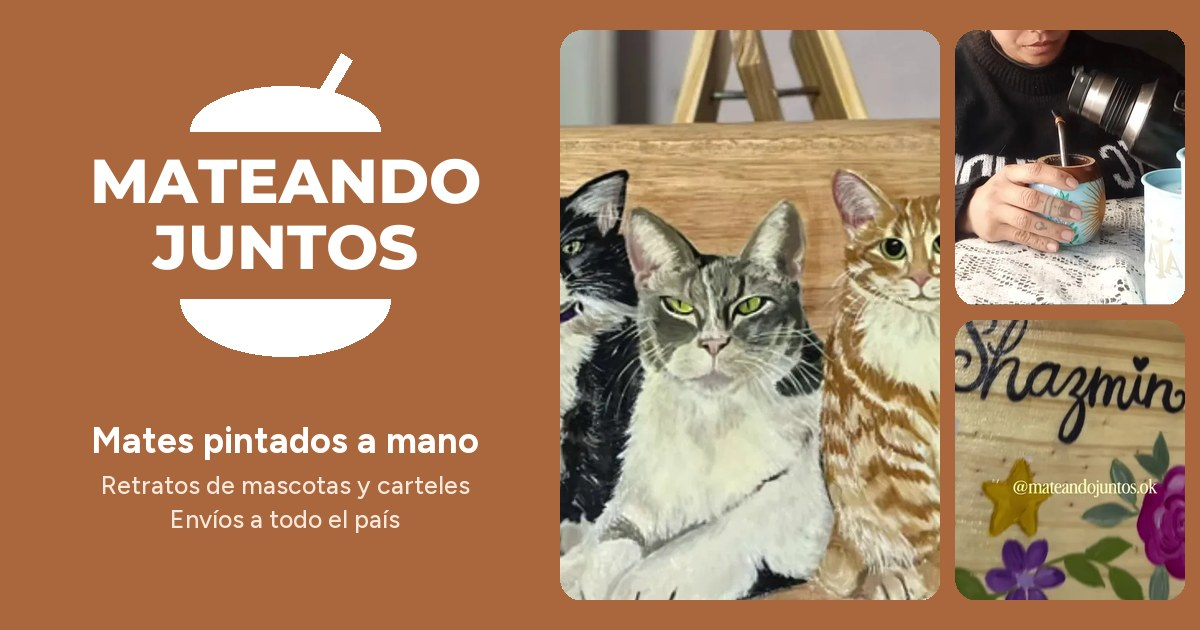
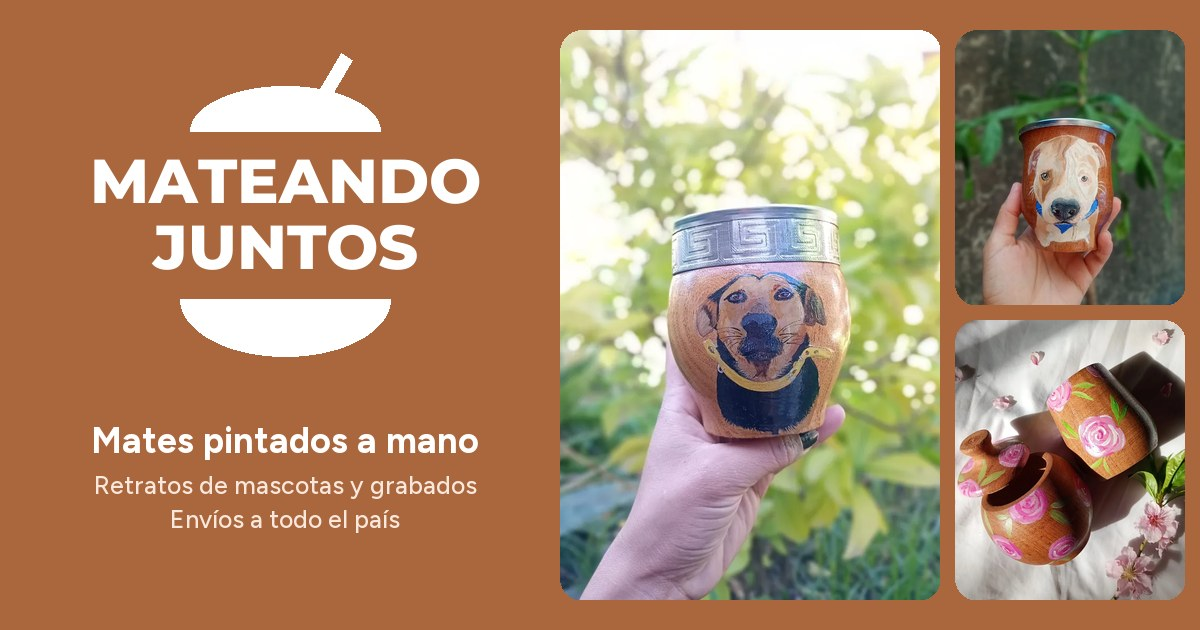
Propuesta web: Mateando Juntos

diff --git a/mateando-juntos/index.html b/mateando-juntos/index.html
@@ -186,6 +186,22 @@ section{scroll-margin-top:calc(var(--header) + 8px)}
 .prod h3{font-size:19px}
 .prod .det{margin-top:6px;color:var(--tinta-2);font-size:15.5px;line-height:1.5}
 .prod .precio{margin-top:10px;font-weight:600;font-size:15px;color:var(--barro-osc)}
+.prod .precio.con{font:800 21px/1.2 var(--marca);color:var(--tinta);letter-spacing:-.01em;font-variant-numeric:tabular-nums}
+.prod .precio s{font:500 15px var(--body);color:var(--tinta-2);margin-left:6px;white-space:nowrap;display:inline-block}
+@media (max-width:560px){.prod .precio.con{font-size:18px}.prod .precio s{font-size:13.5px;margin-left:4px}}
+.nota-prod{display:flex;gap:6px;align-items:flex-start;margin-top:8px;font-size:14px;line-height:1.4;color:var(--barro-osc);font-weight:500}
+.nota-prod .ph{margin-top:2px;flex:none}
+.promo{position:absolute;top:12px;left:12px;padding:6px 12px;border-radius:999px;background:var(--rosa);color:#fff;font:700 13px/1 var(--body)}
+.grilla.filtrada .prod.ancha{grid-column:1 / -1}
+.totales{margin-top:14px;padding:14px 4px 0;border-top:1px dashed rgba(42,28,34,.25);display:grid;gap:4px}
+.totales .fila-t{display:flex;justify-content:space-between;align-items:baseline;gap:12px}
+.totales .fila-t span{font-weight:700;font-size:17px}
+.totales strong{font:800 26px/1 var(--marca);font-variant-numeric:tabular-nums}
+.totales small{color:var(--tinta-2);font-size:13.5px}
+.item .sub{position:absolute;top:12px;right:14px;font-weight:700;font-size:15px;font-variant-numeric:tabular-nums}
+.item{position:relative}
+.item .nom{padding-right:90px}
+.cart-fab .monto,.cart-bar .monto{font-variant-numeric:tabular-nums;white-space:nowrap;opacity:.9}
 .var{display:flex;flex-wrap:wrap;gap:6px;margin-top:12px}
 .var button{height:36px;padding:0 14px;border-radius:999px;border:0;cursor:pointer;background:var(--pared);color:var(--tinta);font:600 14px/1 var(--body);transition:background-color .15s ease, color .15s ease}
 .var button[aria-pressed="true"]{background:var(--barro-claro);color:var(--barro-osc);box-shadow:inset 0 0 0 1.5px var(--barro)}
@@ -204,8 +220,8 @@ section{scroll-margin-top:calc(var(--header) + 8px)}
 .cant output{font-weight:700;font-variant-numeric:tabular-nums;min-width:2ch;text-align:center;font-size:15px}
 .add[data-n="0"] .cant{opacity:0;transform:scale(.95);pointer-events:none;visibility:hidden}
 .add:not([data-n="0"]) .agregar{opacity:0;transform:scale(.95);pointer-events:none;visibility:hidden}
-.prod.ancha{grid-column:1 / -1;display:grid;grid-template-columns:minmax(0,1fr) minmax(0,2fr);gap:32px;align-items:center;padding-top:6px}
-.prod.ancha .foto{aspect-ratio:16/10}
+.prod.ancha{grid-column:span 2;display:grid;grid-template-columns:minmax(0,1fr) minmax(0,2fr);gap:32px;align-items:center;padding-top:6px}
+.prod.ancha .foto{aspect-ratio:4/3}
 .prod.ancha .prod-txt{padding-top:0;max-width:46ch}
 .prod.ancha .empuje{margin-top:14px}
 .prod.ancha .add{max-width:280px}
@@ -215,7 +231,7 @@ section{scroll-margin-top:calc(var(--header) + 8px)}
 .cat-pie a{color:var(--barro-osc);font-weight:600;text-underline-offset:3px}
 .prod.marcado .foto{animation:marcar 1.4s var(--ease-out)}
 @keyframes marcar{0%,40%{box-shadow:0 0 0 4px var(--barro)}100%{box-shadow:0 0 0 0 transparent}}
-@media (max-width:980px){.grilla{grid-template-columns:1fr 1fr;gap:28px 16px}}
+@media (max-width:980px){.grilla{grid-template-columns:1fr 1fr;gap:28px 16px}.prod.ancha{grid-column:1 / -1}}
 @media (max-width:560px){.prod.ancha{grid-template-columns:minmax(0,1fr) minmax(0,1.3fr);gap:14px;align-items:start}.prod.ancha .foto{aspect-ratio:1/1}.prod.ancha .add{max-width:none}}
 @media (max-width:560px){
   .catalogo{padding:64px 0 72px;border-radius:26px 26px 0 0}
@@ -564,7 +580,7 @@ html.carrito-abierto{overflow:hidden}
             </g>
           </g>
         </svg>
-        <figure class="foto-real" style="margin:0"><img src="img/web/mate-pintado.webp" alt="Un mate celeste con un sol pintado a mano, recién cebado" width="800" height="814"></figure>
+        <figure class="foto-real" style="margin:0"><img src="img/web/mateando-01.webp" alt="Mate camionero con el retrato de un perro pintado a mano" width="800" height="1063"></figure>
       </div>
     </div>
   </section>
@@ -585,7 +601,7 @@ html.carrito-abierto{overflow:hidden}
     <div class="wrap">
       <div class="cat-cab">
         <h2 id="catTit">Catálogo</h2>
-        <p>Todo se hace a pedido. Agregá lo que te guste, contame tu idea y te paso el precio por WhatsApp.</p>
+        <p>Los precios son los de su catálogo de WhatsApp. Lo personalizado se hace a pedido: agregalo, contame tu idea y te confirmo precio y tiempos.</p>
       </div>
       <div class="filtros" id="filtros" role="group" aria-label="Filtrar el catálogo"></div>
       <div class="grilla" id="grilla"></div>
@@ -598,12 +614,12 @@ html.carrito-abierto{overflow:hidden}
       <figure><img src="img/web/gatos-todos.webp" alt="Tabla de madera con nueve gatitos retratados a mano, apoyada en un atril" width="720" height="680" loading="lazy" decoding="async"></figure>
       <div class="retratos-txt">
         <h2 id="retTit">Tu mascota, pintada a mano</h2>
-        <p>Uno, dos o nueve. En tabla de madera o en formato circular de 25 cm. Me mandás la foto por WhatsApp y la pinto pincelada por pincelada.</p>
+        <p>En tu mate camionero, imperial o perita, o en una tabla de madera. Me mandás la foto por WhatsApp y la pinto pincelada por pincelada.</p>
         <blockquote>
           <p>“Fueron horas de trabajo, muchos detalles, paciencia, pinceladas y sobre todo, muchísimo amor por lo que hago.”</p>
           <cite>Milagros, sobre el retrato de nueve gatitos</cite>
         </blockquote>
-        <a class="btn btn-barro" href="#catalogo" data-filtrar="retratos"><i class="ph ph-paw-print" aria-hidden="true"></i>Ver retratos</a>
+        <a class="btn btn-barro" href="#catalogo" data-filtrar="personalizados"><i class="ph ph-paw-print" aria-hidden="true"></i>Ver mates con retrato</a>
       </div>
     </div>
   </section>
@@ -669,10 +685,10 @@ html.carrito-abierto{overflow:hidden}
 </a>
 
 <button class="cart-fab" type="button" id="cartFab" data-abrir-carrito aria-label="Ver tu pedido">
-  <i class="ph ph-shopping-bag" aria-hidden="true"></i><span>Ver pedido</span><span class="badge" data-total aria-hidden="true">0</span>
+  <i class="ph ph-shopping-bag" aria-hidden="true"></i><span>Ver pedido</span><span class="monto" data-monto></span><span class="badge" data-total aria-hidden="true">0</span>
 </button>
 <button class="cart-bar" type="button" id="cartBar" data-abrir-carrito aria-label="Ver tu pedido">
-  <i class="ph ph-shopping-bag" aria-hidden="true"></i><span>Ver pedido</span><span class="badge" data-total aria-hidden="true">0</span>
+  <i class="ph ph-shopping-bag" aria-hidden="true"></i><span>Ver pedido</span><span class="monto" data-monto></span><span class="badge" data-total aria-hidden="true">0</span>
 </button>
 <p class="sr" id="anuncio" aria-live="polite"></p>
 
@@ -693,6 +709,7 @@ html.carrito-abierto{overflow:hidden}
       <div id="lleno" hidden>
         <ul class="lista" id="lista" aria-label="Lo que elegiste"></ul>
         <div class="foto-aviso" id="fotoAviso" hidden><svg aria-hidden="true"><use href="#wa"/></svg><p>La foto de tu mascota mandámela por WhatsApp, en el mismo chat que se abre con el pedido. Mientras más clara y de frente, mejor queda el retrato.</p></div>
+        <div class="totales"><div class="fila-t"><span>Total</span><strong id="totalMonto">$ 0</strong></div><small id="totalNota"></small></div>
         <button type="button" class="vaciar" id="vaciar">Vaciar pedido</button>
         <form class="form" id="datos" novalidate>
           <h3>Tus datos</h3>
@@ -718,7 +735,7 @@ html.carrito-abierto{overflow:hidden}
     </div>
     <div class="cajon-pie" id="cajonPie" hidden>
       <button class="btn enviar" type="submit" form="datos" id="enviar"><svg aria-hidden="true"><use href="#wa"/></svg><span>Enviar pedido por WhatsApp</span></button>
-      <p class="nota">Se abre WhatsApp con tu pedido armado. Te paso precio y tiempos por ahí.</p>
+      <p class="nota">Se abre WhatsApp con tu pedido y el total. Te confirmo precios, tiempos y envío por ahí.</p>
       <p class="aviso" id="aviso" role="status" aria-live="polite"></p>
     </div>
   </div>
@@ -736,35 +753,78 @@ var IDEA_PH = {
   frase: 'Ej: "Bienvenidos" con los nombres Luna y Atenea',
   ninguna: 'Color o detalle que prefieras'
 };
-var CATS = [['todo', 'Todo', 'var(--tinta-2)'], ['mates', 'Mates', 'var(--celeste)'], ['retratos', 'Retratos', 'var(--rosa)'], ['carteles', 'Carteles', 'var(--oro)'], ['materas', 'Materas', 'var(--barro)'], ['medida', 'A medida', 'var(--violeta)']];
+// Categorías = colecciones de su catálogo de WhatsApp (más dos grupos para lo que figura solo en "Todos los artículos").
+var CATS = [
+  ['todo', 'Todos los artículos', 'var(--tinta-2)'],
+  ['personalizados', 'Mates personalizados', 'var(--rosa)'],
+  ['algarrobo', 'Mates algarrobo', 'var(--barro)'],
+  ['grabados', 'Grabados personalizados', 'var(--oro)'],
+  ['bombillas', 'Bombillas', 'var(--celeste)'],
+  ['calabaza', 'Calabaza y cuero', 'var(--hoja)'],
+  ['canastas', 'Canastas y termos', 'var(--violeta)'],
+  ['medida', 'A medida', 'var(--violeta)']
+];
 var COLOR_CAT = {}; CATS.forEach(function (c) { COLOR_CAT[c[0]] = c[2]; });
 
-// Productos reales de sus publicaciones de Instagram. Sin precios en sus textos: "Consultá precio".
+// Catálogo real de WhatsApp Business de Mateando Juntos (wa.me/c/5491123087815). Precios en pesos solo donde figuran.
+var DIEZ = '10 días de anticipación mínima.';
 var PRODUCTOS = [
-  { id: 'mate-pintado', cat: 'mates', nombre: 'Mate pintado a mano', det: 'Con el diseño, los colores o el nombre que elijas.', img: 'img/web/mate-pintado.webp', alt: 'Mate celeste pintado a mano con un sol', pers: 'pintado' },
-  { id: 'combo', cat: 'mates', nombre: 'Combo Perdón', img: 'img/web/combos.webp', alt: 'Los tres combos Perdón: básico, estándar y premium', pers: 'ninguna',
-    variantes: [['basico', 'Básico', 'Mate camionero de algarrobo + bombilla pico de loro.'], ['estandar', 'Estándar', 'Mate imperial de algarrobo + bombilla pico de loro.'], ['premium', 'Premium', 'Mate torpedo de calabaza y base + bombilla pico de loro.']] },
-  { id: 'retrato-tabla', cat: 'retratos', nombre: 'Retrato de mascotas en madera', det: 'Una o varias mascotas, pintadas a mano sobre tabla de madera maciza.', img: 'img/web/retrato-tabla.webp', alt: 'Gatitos retratados a mano sobre una tabla de madera', pers: 'mascota' },
-  { id: 'retrato-circular', cat: 'retratos', nombre: 'Retrato circular de 25 cm', img: 'img/web/retrato-gato.webp', alt: 'Retrato pintado a mano de un gato atigrado', pers: 'mascota',
-    variantes: [['mascota', 'De mascota', 'Tu mascota pintada a mano, en formato circular.', 'mascota'], ['ilustrado', 'Ilustrado', 'Retrato ilustrado de personas, en formato circular.', 'pintado']] },
-  { id: 'cartel', cat: 'carteles', nombre: 'Cartel de bienvenida', det: 'Nombres, flores, lunas y estrellas, pintados a mano para tu casa.', img: 'img/web/cartel-card.webp', pos: '0% 50%', alt: 'Cartel redondo de madera con los nombres Isis y Shazmin, margaritas y rosas', pers: 'frase' },
-  { id: 'matera', cat: 'materas', nombre: 'Matera', det: 'Amplia y cómoda, con división para el termo y la bombilla.', img: 'img/web/matera-termo.webp', alt: 'Matera marrón colgando, al aire libre', pers: 'ninguna' },
-  { id: 'a-medida', cat: 'medida', nombre: 'Pedido a medida', det: 'Grabado láser, una frase, otro objeto. Contame la idea y lo vemos.', img: '', alt: '', pers: 'laser' }
+  { id: 'camionero-retrato', cat: 'personalizados', nombre: 'Camionero + retrato/silueta', det: 'Mate camionero de algarrobo con virola de acero y el retrato de tu mascota o una silueta a elección. Incluye bombilla pico de loro de regalo.', nota: DIEZ + ' Si es más de una mascota, consultá.', img: 'mateando-01', alt: 'Mate camionero con el retrato pintado de un perro blanco y marrón', pers: 'mascota' },
+  { id: 'imperial-retrato', cat: 'personalizados', nombre: 'Imperial + retrato/silueta', det: 'Mate imperial de algarrobo con virola de acero y el retrato de tu mascota o una silueta a elección. Incluye bombilla pico de loro de regalo.', nota: DIEZ + ' Si es más de una mascota, consultá.', img: 'mateando-02', alt: 'Mate imperial con el retrato pintado de un perro negro', pers: 'mascota' },
+  { id: 'perita-retrato', cat: 'personalizados', nombre: 'Perita algarrobo + retrato/silueta', det: 'Mate perita de algarrobo con el retrato de tu mascota o una silueta a elección. Incluye bombilla de color de regalo y packaging.', nota: DIEZ + ' Si es más de una mascota, consultá.', img: 'mateando-20', alt: 'Mate perita con el retrato pintado de un perro', pers: 'mascota' },
+  { id: 'camionero-diseno', cat: 'personalizados', nombre: 'Camionero + diseño personalizado', det: 'Camionero de algarrobo con virola de acero. Diseño personalizado a elección (flores, dibujo animado, frases, etc.). Incluye bombilla pico de loro de regalo.', nota: DIEZ, img: 'mateando-03', alt: 'Mate camionero pintado con la frase La mejor abuela del mundo', pers: 'pintado' },
+  { id: 'imperial-diseno', cat: 'personalizados', nombre: 'Imperial + diseño personalizado', det: 'Imperial de algarrobo con virola de acero. Diseño personalizado a elección (flores, dibujo animado, frases, etc.). Incluye bombilla de regalo.', nota: DIEZ, img: 'mateando-19', alt: 'Mate imperial rosa pintado con ojos turcos y hojas', pers: 'pintado' },
+  { id: 'promo-peritas', cat: 'personalizados', nombre: 'Mates en promo', det: 'Mates peritas de algarrobo con diseños personalizados a mano. Elegí el tuyo y llevate una bombilla de regalo.', precio: 15000, antes: 20000, img: 'mateando-15', alt: 'Mate perita pintado con Stitch y flores celestes', pers: 'pintado' },
+  { id: 'set-pink', cat: 'personalizados', nombre: 'Set pink', det: 'Set de mate + azucarera + bombilla de regalo, ideal para regalar o regalarse. Pintado con acrílicos y protegido para su larga vida útil.', precio: 25000, antes: 30000, img: 'mateando-16', alt: 'Mate y azucarera de madera pintados con rosas rosadas', pers: 'ninguna' },
+  { id: 'canasta-personalizada', cat: 'personalizados', nombre: 'Canasta personalizada', det: 'De cuerina con manija reforzada, con el diseño que más te guste (excepto retratos).', nota: '1 semana de anticipación mínima.', img: 'mateando-17', alt: 'Canasta matera negra de cuerina con un paisaje pintado', pers: 'pintado',
+    variantes: [['cuadrada', 'Cuadrada'], ['ovalada', 'Ovalada']] },
+  { id: 'camionero-algarrobo', cat: 'algarrobo', nombre: 'Camionero de algarrobo', det: 'Con virola de acero. Incluye bombilla pico de loro de regalo.', img: 'mateando-05', alt: 'Mate camionero de algarrobo con bombilla, junto a un termo', pers: 'ninguna' },
+  { id: 'imperial-algarrobo', cat: 'algarrobo', nombre: 'Imperial de algarrobo', det: 'Con virola de acero. Incluye bombilla pico de loro de regalo.', img: 'mateando-06', alt: 'Mate imperial de algarrobo en una caja de regalo con luces', pers: 'ninguna' },
+  { id: 'bolita-base', cat: 'algarrobo', nombre: 'Mate bolita con base', det: 'Mate bolita de algarrobo con base de cuero. Ideal para los que usan poca yerba. Incluye bombilla chata de regalo.', nota: 'La base se puede personalizar (consultá el costo extra).', img: 'mateando-21', alt: 'Mate bolita de algarrobo con base de cuero y bombilla chata', pers: 'ninguna' },
+  { id: 'perita-virola', cat: 'algarrobo', nombre: 'Perita con virola', det: 'Nuevo mate perita de algarrobo con virola de alpaca cincelada. Poca yerba y mucho estilo. Incluye bombilla chata de acero de regalo.', img: '', arte: 'perita', pers: 'ninguna' },
+  { id: 'grabado-virola', cat: 'grabados', nombre: 'Grabado personalizado (virola)', det: '¡Personalizá tu mate a tu gusto! Fechas, logos, nombres y símbolos.', nota: 'Entregas de lunes a viernes.', precio: 12000, img: 'mateando-08', alt: 'Virola blanca grabada con escudos y la leyenda Coronados de gloria', pers: 'laser' },
+  { id: 'imperial-grabado', cat: 'grabados', nombre: 'Imperial + grabado personalizado', det: 'Imperial de algarrobo con grabado personalizado (frase, logo, nombre o emoji) + bombilla pico de loro de regalo.', img: 'mateando-09', alt: 'Mate imperial de algarrobo con virola grabada', pers: 'laser' },
+  { id: 'camionero-grabado', cat: 'grabados', nombre: 'Camionero + grabado personalizado', det: 'Camionero de algarrobo con grabado personalizado (frases, logo, nombres o emojis) + bombilla de regalo.', img: 'mateando-10', alt: 'Mate camionero de algarrobo con virola grabada y bombilla', pers: 'laser' },
+  { id: 'bombilla-pico', cat: 'bombillas', nombre: 'Bombilla pico de loro', det: 'De acero inoxidable con pala.', precio: 6000, img: 'mateando-13', alt: 'Tres bombillas pico de loro de acero sobre madera', pers: 'ninguna' },
+  { id: 'bombilla-alpaca', cat: 'bombillas', nombre: 'Bombilla alpaca', det: 'Pico de loro y pala de alpaca, ideal para combinar con tu mate.', precio: 15000, img: 'mateando-18', alt: 'Bombilla de alpaca junto a un mate', pers: 'ninguna' },
+  { id: 'bombilla-color', cat: 'bombillas', nombre: 'Bombilla color', det: 'Bombilla para mate de aluminio.', nota: 'Consultá los colores disponibles.', precio: 1000, img: '', arte: 'bombillas', pers: 'ninguna' },
+  { id: 'torpedo-calabaza', cat: 'calabaza', nombre: 'Torpedo calabaza y base', det: 'Nuevo torpedo de calabaza con base de cuero crudo y virola de alpaca cincelada. Incluye bombilla pico de loro de regalo.', img: 'mateando-22', alt: 'Mate torpedo de calabaza con virola cincelada y bombilla', pers: 'ninguna' },
+  { id: 'imperial-calabaza', cat: 'calabaza', nombre: 'Imperial calabaza', det: 'Imperial de cuero con interior de calabaza y virola de acero. Incluye bombilla de regalo.', nota: 'Por pedido.', precio: 40000, img: 'mateando-26', alt: 'Mate imperial de cuero negro en una caja de regalo', pers: 'ninguna',
+    variantes: [['negro', 'Negro'], ['borravino', 'Borravino']] },
+  { id: 'canasta-ovalada', cat: 'canastas', nombre: 'Canasta matera ovalada', det: 'Canasta ovalada rígida de cuerina, con división. Ideal para tu equipo matero.', nota: 'Por pedido.', precio: 20000, img: 'mateando-24', alt: 'Canasta matera ovalada de cuerina negra en la playa', pers: 'ninguna' },
+  { id: 'termo-stanley', cat: 'canastas', nombre: 'Termo símil Stanley', det: 'Con pico cebador y 3 sellos.', nota: 'Por pedido. Consultá los colores disponibles.', img: 'mateando-25', alt: 'Termo negro símil Stanley', pers: 'ninguna' },
+  { id: 'a-medida', cat: 'medida', nombre: 'Pedido a medida', det: '¿Otra idea? Un retrato en madera, un cartel, otro objeto. Contame y lo vemos.', img: '', arte: 'medida', pers: 'pintado' }
 ];
+PRODUCTOS.forEach(function (p) { if (p.img) p.img = 'img/web/' + p.img + '.webp'; });
 var POR_ID = {};
 PRODUCTOS.forEach(function (p) {
   if (p.variantes) p.variantes.forEach(function (v) {
-    POR_ID[p.id + ':' + v[0]] = { id: p.id + ':' + v[0], base: p, nombre: p.nombre + ' ' + v[1], det: v[2], img: p.img, pers: v[3] || p.pers };
+    POR_ID[p.id + ':' + v[0]] = { id: p.id + ':' + v[0], base: p, nombre: p.nombre + ' (' + v[1].toLowerCase() + ')', det: p.det, img: p.img, pers: p.pers, precio: p.precio || 0 };
   });
-  else POR_ID[p.id] = { id: p.id, base: p, nombre: p.nombre, det: p.det, img: p.img, pers: p.pers };
+  else POR_ID[p.id] = { id: p.id, base: p, nombre: p.nombre, det: p.det, img: p.img, pers: p.pers, precio: p.precio || 0 };
 });
 
 function esc(s) { return String(s).replace(/[&<>"]/g, function (c) { return { '&': '&amp;', '<': '&lt;', '>': '&gt;', '"': '&quot;' }[c]; }); }
-var ARTE_MEDIDA = '<div class="medida-arte"><svg viewBox="0 0 200 200" aria-hidden="true"><circle cx="100" cy="100" r="78" fill="var(--madera)"/>' +
-  '<path d="M48 84 C 80 70, 120 96, 152 80" stroke="var(--violeta)" stroke-width="14" stroke-linecap="round" fill="none"/>' +
-  '<path d="M52 112 C 84 100, 118 124, 148 110" stroke="var(--rosa)" stroke-width="14" stroke-linecap="round" fill="none"/>' +
-  '<path d="M60 138 C 88 130, 116 146, 140 136" stroke="var(--oro)" stroke-width="14" stroke-linecap="round" fill="none"/>' +
-  '<path d="M150 42 l6 14 14 6 -14 6 -6 14 -6 -14 -14 -6 14 -6z" fill="var(--tinta)"/></svg></div>';
+function plata(n) { return '$ ' + String(Math.round(n)).replace(/\B(?=(\d{3})+(?!\d))/g, '.'); }
+// tarjetas sin foto: ilustraciones simples sobre tabla de pino
+var ARTES = {
+  medida: '<path d="M48 84 C 80 70, 120 96, 152 80" stroke="var(--violeta)" stroke-width="14" stroke-linecap="round" fill="none"/>' +
+    '<path d="M52 112 C 84 100, 118 124, 148 110" stroke="var(--rosa)" stroke-width="14" stroke-linecap="round" fill="none"/>' +
+    '<path d="M60 138 C 88 130, 116 146, 140 136" stroke="var(--oro)" stroke-width="14" stroke-linecap="round" fill="none"/>' +
+    '<path d="M150 42 l6 14 14 6 -14 6 -6 14 -6 -14 -14 -6 14 -6z" fill="var(--tinta)"/>',
+  bombillas: [['var(--rosa)', -24], ['var(--celeste)', -8], ['var(--oro)', 8], ['var(--violeta)', 24]].map(function (b) {
+    return '<g transform="translate(' + (100 + b[1] * 1.6) + ' 100) rotate(' + (b[1] / 2) + ')"><path d="M0 -62 C 0 -70, 8 -74, 14 -70" stroke="' + b[0] + '" stroke-width="7" stroke-linecap="round" fill="none"/><path d="M0 -62 V 46" stroke="' + b[0] + '" stroke-width="7" stroke-linecap="round"/><ellipse cy="56" rx="9" ry="13" fill="' + b[0] + '"/></g>';
+  }).join(''),
+  perita: '<path d="M70 66 C 58 92, 56 126, 72 148 C 84 164, 116 164, 128 148 C 144 126, 142 92, 130 66 Z" fill="#B9773F" stroke="var(--tinta)" stroke-width="4" stroke-linejoin="round"/>' +
+    '<rect x="64" y="54" width="72" height="16" rx="8" fill="#C9CED6" stroke="var(--tinta)" stroke-width="3.5"/>' +
+    '<path d="M72 62 h56" stroke="#8A919B" stroke-width="2.5" stroke-dasharray="3 5"/>' +
+    '<path d="M110 56 L 138 20 C 140 16, 146 15, 150 18" stroke="#B8BEC6" stroke-width="6" stroke-linecap="round" fill="none"/>'
+};
+function arte(k) { return '<div class="medida-arte"><svg viewBox="0 0 200 200" aria-hidden="true"><circle cx="100" cy="100" r="80" fill="var(--madera)"/>' + ARTES[k] + '</svg></div>'; }
+function precioHTML(p) {
+  if (!p.precio) return '<p class="precio">Consultá precio</p>';
+  return '<p class="precio con">' + plata(p.precio) + (p.antes ? ' <s><span class="sr">antes </span>' + plata(p.antes) + '</s>' : '') + '</p>';
+}
 var MAS = '<i class="ph ph-plus" aria-hidden="true"></i>', MENOS = '<i class="ph ph-minus" aria-hidden="true"></i>';
 
 /* ---------- catálogo ---------- */
@@ -775,11 +835,12 @@ var MAS = '<i class="ph ph-plus" aria-hidden="true"></i>', MENOS = '<i class="ph
     var vars = p.variantes ? '<div class="var" role="group" aria-label="Elegí la versión de ' + n + '">' + p.variantes.map(function (v, i) {
       return '<button type="button" data-var="' + p.id + ':' + v[0] + '" aria-pressed="' + (i === 0) + '">' + esc(v[1]) + '</button>';
     }).join('') + '</div>' : '';
-    var det = p.variantes ? p.variantes[0][2] : p.det;
     return '<article class="prod' + (p.id === 'a-medida' ? ' ancha' : '') + '" id="p-' + p.id + '" data-cat="' + p.cat + '" style="--c:' + COLOR_CAT[p.cat] + '">' +
-      '<div class="foto">' + (p.img ? '<img src="' + p.img + '"' + (p.pos ? ' style="object-position:' + p.pos + '"' : '') + ' alt="' + esc(p.alt) + '" loading="lazy" decoding="async" width="800" height="1000">' : ARTE_MEDIDA) + '</div>' +
-      '<div class="prod-txt"><h3>' + n + '</h3>' + vars + '<p class="det" data-det>' + esc(det) + '</p>' +
-      '<div class="empuje"><p class="precio">Consultá precio</p>' +
+      '<div class="foto">' + (p.img ? '<img src="' + p.img + '" alt="' + esc(p.alt) + '" loading="lazy" decoding="async" width="800" height="1000">' : arte(p.arte)) +
+        (p.antes ? '<span class="promo">Promo</span>' : '') + '</div>' +
+      '<div class="prod-txt"><h3>' + n + '</h3>' + vars + '<p class="det">' + esc(p.det) + '</p>' +
+      (p.nota ? '<p class="nota-prod"><i class="ph ph-info" aria-hidden="true"></i>' + esc(p.nota) + '</p>' : '') +
+      '<div class="empuje">' + precioHTML(p) +
       '<div class="add" data-item="' + first + '" data-n="0">' +
         '<button type="button" class="agregar">' + MAS + 'Agregar</button>' +
         '<div class="cant" role="group"><button type="button" data-d="-1" aria-label="Uno menos">' + MENOS + '</button><output>0</output><button type="button" data-d="1" aria-label="Uno más">' + MAS + '</button></div>' +
@@ -793,12 +854,12 @@ var MAS = '<i class="ph ph-plus" aria-hidden="true"></i>', MENOS = '<i class="ph
   function filtrar(f) {
     filtros.querySelectorAll('[data-f]').forEach(function (x) { x.setAttribute('aria-pressed', String(x.getAttribute('data-f') === f)); });
     grilla.querySelectorAll('.prod').forEach(function (a) { a.hidden = !(f === 'todo' || a.getAttribute('data-cat') === f); });
+    grilla.classList.toggle('filtrada', f !== 'todo');
   }
   filtros.addEventListener('click', function (e) { var b = e.target.closest('[data-f]'); if (b) filtrar(b.getAttribute('data-f')); });
   document.addEventListener('click', function (e) {
     var a = e.target.closest('[data-filtrar]'); if (a) filtrar(a.getAttribute('data-filtrar'));
   });
-  window.__filtrar = filtrar;
 })();
 
 /* ---------- menú y encabezado ---------- */
@@ -836,6 +897,8 @@ var MAS = '<i class="ph ph-plus" aria-hidden="true"></i>', MENOS = '<i class="ph
   function idx(id) { for (var i = 0; i < estado.items.length; i++) if (estado.items[i].id === id) return i; return -1; }
   function cant(id) { var i = idx(id); return i < 0 ? 0 : estado.items[i].n; }
   function unidades() { return estado.items.reduce(function (a, it) { return a + it.n; }, 0); }
+  function monto() { return estado.items.reduce(function (a, it) { return a + it.n * POR_ID[it.id].precio; }, 0); }
+  function sinPrecio() { return estado.items.reduce(function (a, it) { return a + (POR_ID[it.id].precio ? 0 : it.n); }, 0); }
   function hayMascota() { return estado.items.some(function (it) { return it.pers === 'mascota'; }); }
 
   var dlg = $('carrito'), form = $('datos'), lista = $('lista'), fab = $('cartFab'), bar = $('cartBar');
@@ -864,10 +927,14 @@ var MAS = '<i class="ph ph-plus" aria-hidden="true"></i>', MENOS = '<i class="ph
     var d = estado.datos, l = ['¡Hola Milagros! Vi la web de Mateando Juntos y quiero hacer este pedido:', ''];
     estado.items.forEach(function (it) {
       var p = POR_ID[it.id];
-      l.push('• ' + it.n + ' x ' + p.nombre + (p.base.variantes ? ' (' + p.det.replace(/\.$/, '') + ')' : ''));
+      l.push('• ' + it.n + ' x ' + p.nombre + ': ' + (p.precio ? plata(p.precio * it.n) + (it.n > 1 ? ' (' + plata(p.precio) + ' c/u)' : '') : 'precio a confirmar'));
       l.push('   Personalización: ' + PERS[it.pers]);
       if (it.idea) l.push('   Mi idea: ' + it.idea);
     });
+    l.push('');
+    var sinP = sinPrecio();
+    if (monto()) l.push('TOTAL: ' + plata(monto()) + (sinP ? ' + ' + (sinP === 1 ? '1 producto' : sinP + ' productos') + ' a confirmar' : ''));
+    else l.push('TOTAL: a confirmar');
     l.push('');
     l.push('Nombre: ' + (d.nombre || ''));
     l.push('Teléfono: ' + (d.tel || ''));
@@ -879,16 +946,17 @@ var MAS = '<i class="ph ph-plus" aria-hidden="true"></i>', MENOS = '<i class="ph
     if (d.regalo) l.push('Es para regalar');
     if (d.aclar) l.push('Algo más: ' + d.aclar);
     if (hayMascota()) l.push('', 'Ahora te mando por acá la foto de mi mascota.');
-    l.push('', '¿Me pasás el precio y los tiempos? ¡Gracias!');
+    l.push('', sinP ? '¿Me confirmás los precios que faltan y los tiempos? ¡Gracias!' : '¿Me confirmás disponibilidad y tiempos? ¡Gracias!');
     return l.join('\n');
   }
 
   function itemHTML(it) {
     var p = POR_ID[it.id], n = esc(p.nombre), uid = it.id.replace(/[^a-z0-9]/gi, '-');
-    var img = p.img ? '<img class="mini" src="' + p.img + '" alt="" width="64" height="80" loading="lazy">' : '<div class="mini" aria-hidden="true">' + ARTE_MEDIDA + '</div>';
+    var img = p.img ? '<img class="mini" src="' + p.img + '" alt="" width="64" height="80" loading="lazy">' : '<div class="mini" aria-hidden="true">' + arte(p.base.arte) + '</div>';
     var opts = Object.keys(PERS).map(function (k) { return '<option value="' + k + '"' + (k === it.pers ? ' selected' : '') + '>' + PERS[k] + '</option>'; }).join('');
     return '<li class="item" data-item="' + it.id + '">' + img +
-      '<div><div class="nom"><b>' + n + '</b>' + (p.base.variantes ? '<span>' + esc(p.det) + '</span>' : '') + '</div>' +
+      '<div><div class="nom"><b>' + n + '</b><span>' + (p.precio ? plata(p.precio) + ' c/u' : 'Precio a confirmar') + '</span></div>' +
+      '<span class="sub">' + (p.precio ? plata(p.precio * it.n) : 'A confirmar') + '</span>' +
       '<div class="fila"><div class="cant" role="group" aria-label="Cantidad de ' + n + '"><button type="button" data-d="-1" aria-label="Uno menos"' + (it.n <= 1 ? ' disabled' : '') + '>' + MENOS + '</button><output>' + it.n + '</output><button type="button" data-d="1" aria-label="Uno más"' + (it.n >= 20 ? ' disabled' : '') + '>' + MAS + '</button></div>' +
       '<button type="button" class="quitar" data-quitar aria-label="Quitar ' + n + ' del pedido">Quitar</button></div></div>' +
       '<div class="pers"><label for="pers-' + uid + '">¿Cómo lo personalizamos?</label><select id="pers-' + uid + '" data-pers>' + opts + '</select>' +
@@ -916,6 +984,10 @@ var MAS = '<i class="ph ph-plus" aria-hidden="true"></i>', MENOS = '<i class="ph
     $('carritoSub').textContent = t ? (t === 1 ? '1 producto' : t + ' productos') : 'Mateando Juntos';
     if (rehacerLista !== false) lista.innerHTML = estado.items.map(itemHTML).join('');
     $('fotoAviso').hidden = !hayMascota();
+    var m = monto(), sp = sinPrecio();
+    $('totalMonto').textContent = m ? plata(m) : 'A confirmar';
+    $('totalNota').textContent = sp ? (m ? 'Más ' + (sp === 1 ? '1 producto' : sp + ' productos') + ' con precio a confirmar. ' : '') + 'Te paso el precio de lo personalizado por WhatsApp.' : 'El envío se cotiza aparte.';
+    document.querySelectorAll('[data-monto]').forEach(function (b) { b.textContent = m ? plata(m) : ''; b.hidden = !m; });
     $('msgPrev').textContent = mensaje();
     guardar();
   }
@@ -944,7 +1016,6 @@ var MAS = '<i class="ph ph-plus" aria-hidden="true"></i>', MENOS = '<i class="ph
     if (b.hasAttribute('data-var')) {
       var card = b.closest('.prod'), vid = b.getAttribute('data-var');
       card.querySelectorAll('[data-var]').forEach(function (x) { x.setAttribute('aria-pressed', String(x === b)); });
-      card.querySelector('[data-det]').textContent = POR_ID[vid].det;
       card.querySelector('.add').setAttribute('data-item', vid);
       render(false);
     } else if (b.classList.contains('agregar')) {
